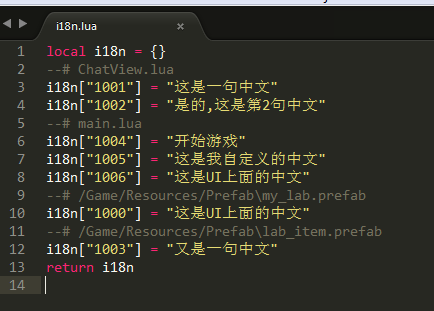
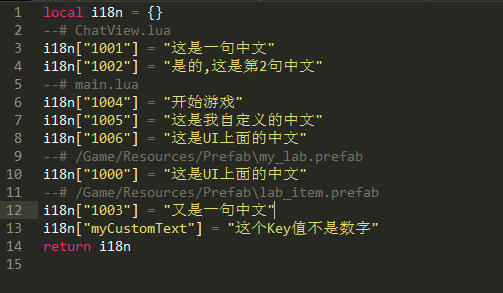
init

Changed region(s): [[0.0, 0.0, 1.0, 0.9522], [0.3894, 0.0614, 0.4194, 0.0922]]

diff --git a/Assets/Editor/I18nExporter/I18nExporter.cs b/Assets/Editor/I18nExporter/I18nExporter.cs
@@ -1,4 +1,29 @@
-using UnityEngine;
+/****************************************************************************
+Copyright (c) 2015 Lingjijian
+
+Created by Lingjijian on 2015
+
+342854406@qq.com
+
+Permission is hereby granted, free of charge, to any person obtaining a copy
+of this software and associated documentation files (the "Software"), to deal
+in the Software without restriction, including without limitation the rights
+to use, copy, modify, merge, publish, distribute, sublicense, and/or sell
+copies of the Software, and to permit persons to whom the Software is
+furnished to do so, subject to the following conditions:
+
+The above copyright notice and this permission notice shall be included in
+all copies or substantial portions of the Software.
+
+THE SOFTWARE IS PROVIDED "AS IS", WITHOUT WARRANTY OF ANY KIND, EXPRESS OR
+IMPLIED, INCLUDING BUT NOT LIMITED TO THE WARRANTIES OF MERCHANTABILITY,
+FITNESS FOR A PARTICULAR PURPOSE AND NONINFRINGEMENT. IN NO EVENT SHALL THE
+AUTHORS OR COPYRIGHT HOLDERS BE LIABLE FOR ANY CLAIM, DAMAGES OR OTHER
+LIABILITY, WHETHER IN AN ACTION OF CONTRACT, TORT OR OTHERWISE, ARISING FROM,
+OUT OF OR IN CONNECTION WITH THE SOFTWARE OR THE USE OR OTHER DEALINGS IN
+THE SOFTWARE.
+****************************************************************************/
+using UnityEngine;
 using System.Collections.Generic;
 using UnityEditor;
 using UnityEngine.UI;
@@ -27,14 +52,14 @@ public class I18nExporter : Editor
 
     private static void Load()
     {
-		_outputPath = Application.dataPath + "/Game/Lua/Common/i18n.lua";
-		_scanDir = Application.dataPath + "/Game/Lua";
+		_outputPath = Application.dataPath + "/Lua/Common/i18n.lua";
+		_scanDir = Application.dataPath + "/Lua";
 		_ignorePath = new List<string>()
 		{
 			"i18n.lua"
 		};
 
-		TextAsset textAsset = (TextAsset)AssetDatabase.LoadAssetAtPath("Asset/Editor/I18nExporter/config.xml",typeof(TextAsset));
+		TextAsset textAsset = (TextAsset)AssetDatabase.LoadAssetAtPath("Asset/Editor/I18nExporter/config.txt",typeof(TextAsset));
         if (textAsset)
         {
             XmlDocument doc = new XmlDocument();
@@ -72,7 +97,11 @@ public class I18nExporter : Editor
 					string value = line.Substring (startIdx, endIdx - startIdx);
 					markDic.Add (string.Format ("i18n[\"{0}\"]", key), value);
 
-					_markIdMap.Add (int.Parse (key));
+                    int n; //只存数字键
+                    if(int.TryParse(key,out n))
+                    {
+					   _markIdMap.Add (n);
+                    }
 				} else if (line.StartsWith ("--# ") && line.EndsWith(".lua")) {
 					int startIdx = line.IndexOf ("--# ") + 4;
 					int endIdx = line.LastIndexOf (".lua") + 4;

diff --git a/Assets/Editor/I18nExporter/Helper.cs b/Assets/Editor/I18nExporter/Helper.cs
@@ -1,4 +1,29 @@
-using UnityEngine;
+/****************************************************************************
+Copyright (c) 2015 Lingjijian
+
+Created by Lingjijian on 2015
+
+342854406@qq.com
+
+Permission is hereby granted, free of charge, to any person obtaining a copy
+of this software and associated documentation files (the "Software"), to deal
+in the Software without restriction, including without limitation the rights
+to use, copy, modify, merge, publish, distribute, sublicense, and/or sell
+copies of the Software, and to permit persons to whom the Software is
+furnished to do so, subject to the following conditions:
+
+The above copyright notice and this permission notice shall be included in
+all copies or substantial portions of the Software.
+
+THE SOFTWARE IS PROVIDED "AS IS", WITHOUT WARRANTY OF ANY KIND, EXPRESS OR
+IMPLIED, INCLUDING BUT NOT LIMITED TO THE WARRANTIES OF MERCHANTABILITY,
+FITNESS FOR A PARTICULAR PURPOSE AND NONINFRINGEMENT. IN NO EVENT SHALL THE
+AUTHORS OR COPYRIGHT HOLDERS BE LIABLE FOR ANY CLAIM, DAMAGES OR OTHER
+LIABILITY, WHETHER IN AN ACTION OF CONTRACT, TORT OR OTHERWISE, ARISING FROM,
+OUT OF OR IN CONNECTION WITH THE SOFTWARE OR THE USE OR OTHER DEALINGS IN
+THE SOFTWARE.
+****************************************************************************/
+using UnityEngine;
 using UnityEngine.Events;
 using System.Collections.Generic;
 using System.Security.Cryptography;

diff --git a/Assets/Game/Script/UIi18n.cs b/Assets/Game/Script/UIi18n.cs
@@ -1,5 +1,28 @@
-using System;
-using System.Collections.Generic;
+/****************************************************************************
+Copyright (c) 2015 Lingjijian
+
+Created by Lingjijian on 2015
+
+342854406@qq.com
+
+Permission is hereby granted, free of charge, to any person obtaining a copy
+of this software and associated documentation files (the "Software"), to deal
+in the Software without restriction, including without limitation the rights
+to use, copy, modify, merge, publish, distribute, sublicense, and/or sell
+copies of the Software, and to permit persons to whom the Software is
+furnished to do so, subject to the following conditions:
+
+The above copyright notice and this permission notice shall be included in
+all copies or substantial portions of the Software.
+
+THE SOFTWARE IS PROVIDED "AS IS", WITHOUT WARRANTY OF ANY KIND, EXPRESS OR
+IMPLIED, INCLUDING BUT NOT LIMITED TO THE WARRANTIES OF MERCHANTABILITY,
+FITNESS FOR A PARTICULAR PURPOSE AND NONINFRINGEMENT. IN NO EVENT SHALL THE
+AUTHORS OR COPYRIGHT HOLDERS BE LIABLE FOR ANY CLAIM, DAMAGES OR OTHER
+LIABILITY, WHETHER IN AN ACTION OF CONTRACT, TORT OR OTHERWISE, ARISING FROM,
+OUT OF OR IN CONNECTION WITH THE SOFTWARE OR THE USE OR OTHER DEALINGS IN
+THE SOFTWARE.
+****************************************************************************/
 using UnityEngine;
 using UnityEngine.UI;
 using LuaInterface;
